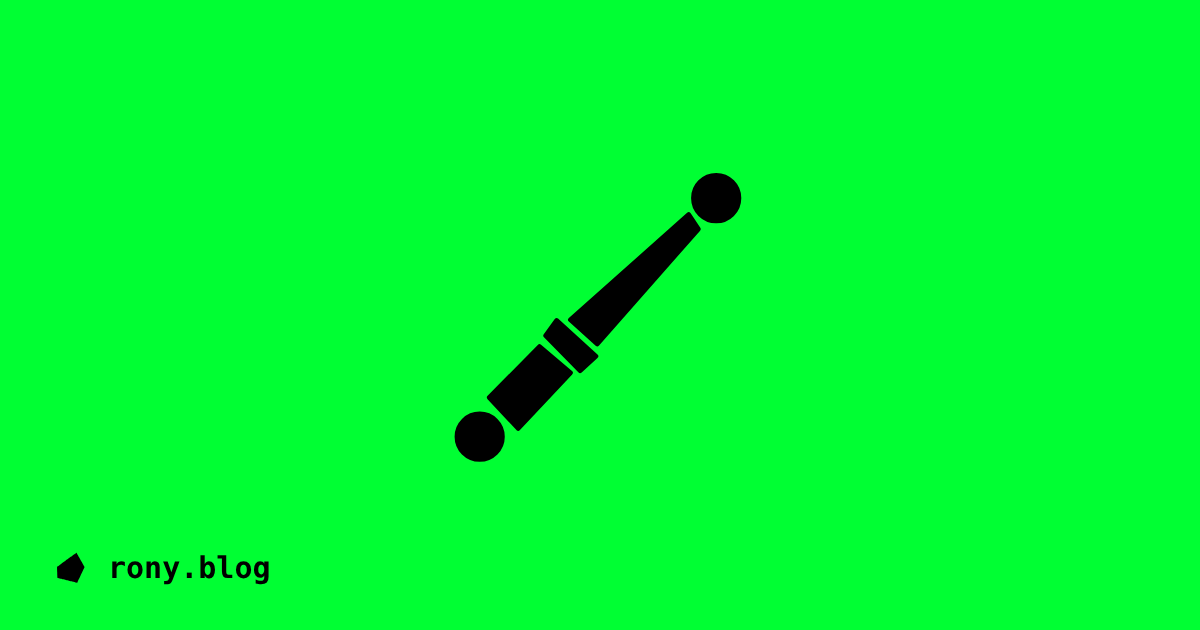
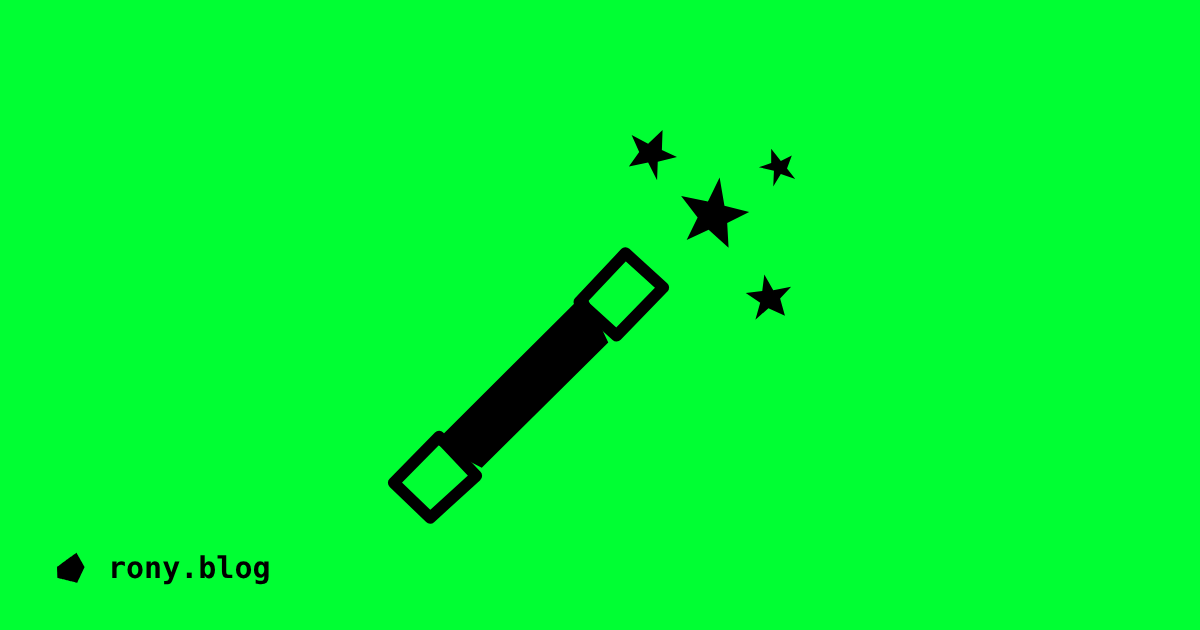
Draw the magic wand as a magic wand
A thick black shaft with outlined tips at both ends and four hand-cut
stars off the tip, in the same solid black as the other drawings. Replaces
the stick in the feed, the social cuts, the share card and the library.

Claude-Session: https://claude.ai/code/session_01DvgCqh7jZkxuLgej98F7v5

diff --git a/index.html b/index.html
@@ -375,7 +375,7 @@ h2.year { font-size: 13px; font-weight: 700; letter-spacing: .3em; color: var(--
   <symbol id="i-dots" viewBox="0 0 64 64"><path fill="currentColor" fill-rule="evenodd" d="M28.5 55.4 C28.7 55.2 28.9 55.1 29.0 55.1 C29.2 54.9 29.5 54.4 29.6 53.9 C29.8 53.4 29.8 53.4 29.6 52.9 C29.4 52.2 29.0 51.5 28.7 51.5 C28.6 51.5 28.5 51.5 28.3 51.4 C27.9 51.1 26.9 51.1 26.5 51.4 C25.6 51.9 25.1 53.0 25.3 53.8 C25.5 54.6 25.8 55.0 26.3 55.3 C26.7 55.6 26.8 55.6 27.5 55.6 C28.0 55.6 28.2 55.5 28.5 55.4 Z M19.7 46.5 C20.2 46.0 20.3 45.9 20.3 45.2 L20.3 44.7 L19.9 44.2 C19.6 43.9 19.5 43.8 19.1 43.8 C18.5 43.6 18.1 43.8 17.6 44.2 C17.0 44.8 17.0 45.5 17.6 46.2 C18.0 46.7 18.0 46.7 18.8 46.7 C19.3 46.7 19.5 46.6 19.7 46.5 Z M41.8 44.9 C42.4 44.5 42.7 43.9 42.4 43.4 C42.3 43.1 41.6 42.6 41.4 42.6 C41.1 42.6 40.7 42.9 40.4 43.2 C39.8 44.1 40.8 45.4 41.8 44.9 Z M29.8 38.1 C30.3 37.7 30.5 37.2 30.4 36.7 C30.2 36.2 29.6 35.6 29.1 35.6 C28.8 35.6 28.4 35.9 28.0 36.2 C27.7 36.5 27.7 36.6 27.7 37.0 C27.7 37.3 27.7 37.5 27.9 37.7 C28.4 38.3 29.2 38.5 29.8 38.1 Z M39.1 29.5 C39.3 29.4 39.6 29.3 39.7 29.1 C40.0 28.9 40.0 28.9 40.0 28.2 C40.0 27.5 39.9 27.2 39.3 26.9 C38.9 26.7 38.6 26.6 38.1 26.8 C37.6 27.0 37.2 27.4 37.2 27.9 C37.1 28.5 37.2 28.8 37.5 29.1 C38.1 29.6 38.5 29.7 39.1 29.5 Z M20.3 27.2 C21.0 27.1 21.4 27.0 21.9 26.5 C22.4 26.0 22.6 25.7 22.9 24.9 C23.1 24.2 23.1 23.8 22.9 23.2 C22.8 23.0 22.8 22.8 22.8 22.7 C22.8 22.3 21.9 21.3 21.3 21.0 C20.8 20.7 20.0 20.5 19.6 20.5 C19.3 20.5 18.4 20.8 17.9 21.0 C17.6 21.2 17.0 21.8 17.0 21.9 C17.0 22.0 16.9 22.1 16.8 22.2 C16.7 22.3 16.6 22.6 16.6 22.7 C16.6 22.9 16.5 23.1 16.4 23.2 C16.3 23.5 16.3 24.6 16.4 24.9 C16.5 25.0 16.6 25.3 16.7 25.6 C17.1 26.3 18.1 27.1 19.1 27.2 C19.6 27.3 19.7 27.3 20.3 27.2 Z M49.6 21.2 C49.8 21.1 50.1 20.9 50.2 20.6 C50.5 20.3 50.5 20.2 50.5 19.7 C50.5 19.3 50.5 19.1 50.3 18.8 C50.1 18.5 50.0 18.4 49.5 18.2 C49.0 18.0 49.0 18.0 48.6 18.1 C48.3 18.2 48.1 18.3 47.8 18.6 C47.4 19.1 47.3 19.3 47.3 19.7 C47.3 20.5 47.7 21.1 48.5 21.3 C48.9 21.4 49.2 21.4 49.6 21.2 Z M41.1 13.4 C41.5 13.3 41.8 13.1 42.0 12.9 C42.7 12.3 43.0 10.9 42.6 10.3 C42.5 10.2 42.5 10.1 42.5 10.0 C42.5 9.8 42.0 9.2 41.7 9.0 C41.5 8.9 41.1 8.7 40.8 8.6 C40.3 8.5 40.3 8.5 39.8 8.7 C39.5 8.7 39.1 8.9 38.9 9.0 C38.6 9.2 38.2 9.8 38.2 9.9 C38.2 9.9 38.1 10.1 38.0 10.3 C37.8 10.8 37.8 11.4 38.1 12.1 C38.3 12.8 38.8 13.2 39.6 13.5 C39.9 13.6 40.2 13.7 40.3 13.7 C40.4 13.7 40.7 13.6 41.1 13.4 Z"/></symbol>
   <symbol id="i-quad" viewBox="0 0 64 64"><path fill="currentColor" fill-rule="evenodd" d="M43.9 50.0 C43.9 49.9 44.0 49.3 44.1 48.6 C44.1 47.9 44.2 47.0 44.3 46.7 C44.3 46.4 44.4 45.7 44.4 45.1 C44.4 44.5 44.5 43.9 44.6 43.8 C44.6 43.6 44.7 43.1 44.7 42.6 C44.7 42.2 44.9 41.0 45.0 40.0 C45.1 39.1 45.2 37.7 45.3 36.9 C45.4 36.1 45.5 35.3 45.5 35.0 C45.6 34.7 45.7 34.1 45.7 33.6 C45.7 33.1 45.8 32.5 45.9 32.2 C45.9 32.0 45.9 31.6 45.9 31.3 C45.9 31.0 46.0 30.5 46.0 30.2 C46.1 29.9 46.2 29.1 46.3 28.3 C46.3 27.6 46.4 26.8 46.5 26.5 C46.5 26.3 46.5 25.8 46.5 25.6 C46.5 25.3 46.6 24.6 46.7 23.9 C46.8 23.3 46.9 22.3 46.9 21.8 C46.9 21.2 47.0 20.6 47.0 20.5 C47.1 20.4 47.1 19.8 47.2 19.3 C47.2 18.8 47.3 18.1 47.3 17.7 C47.4 16.7 47.5 15.3 47.5 15.1 C47.4 15.0 47.3 14.9 47.1 15.0 C47.0 15.0 46.7 15.1 46.3 15.1 C46.0 15.1 45.3 15.2 44.8 15.3 C44.3 15.4 43.4 15.5 42.8 15.6 C42.2 15.7 41.4 15.8 41.0 15.9 C40.6 16.0 40.1 16.0 39.8 16.1 C39.5 16.1 38.9 16.2 38.6 16.3 C37.4 16.5 36.4 16.6 35.8 16.7 C35.5 16.7 35.1 16.8 34.9 16.8 C34.7 16.9 34.3 16.9 33.9 17.0 C33.6 17.0 33.0 17.1 32.6 17.2 C31.8 17.3 31.2 17.4 29.9 17.6 C29.3 17.7 28.7 17.8 28.4 17.8 C25.8 18.3 25.4 18.3 24.5 18.5 C24.2 18.5 23.7 18.6 23.3 18.7 C22.9 18.7 22.2 18.8 21.7 18.9 C21.3 18.9 20.7 19.0 20.4 19.1 C20.2 19.1 19.7 19.2 19.4 19.2 C19.0 19.3 18.8 19.3 18.7 19.4 C18.6 19.5 18.6 19.9 18.6 20.5 C18.6 21.0 18.6 21.6 18.5 21.9 C18.5 22.3 18.4 23.1 18.1 26.6 C18.0 28.8 17.9 29.6 17.8 30.5 C17.7 31.9 17.5 34.8 17.5 36.2 C17.4 36.9 17.4 37.7 17.3 38.0 C17.3 38.3 17.2 39.1 17.2 39.8 C17.2 40.5 17.1 41.7 17.0 42.4 C17.0 43.2 16.9 44.3 16.8 44.8 C16.8 45.3 16.8 45.9 16.7 46.2 C16.7 46.8 16.8 46.9 17.7 47.0 C18.1 47.0 18.7 47.1 18.9 47.1 C19.2 47.1 19.9 47.2 20.4 47.3 C20.9 47.3 21.6 47.4 22.0 47.5 C22.8 47.6 23.5 47.7 25.3 47.9 C25.9 48.0 26.7 48.1 27.1 48.1 C27.5 48.2 28.3 48.3 28.9 48.4 C31.7 48.7 32.5 48.8 33.0 48.9 C33.4 48.9 33.8 49.0 34.0 49.0 C34.1 49.0 34.7 49.1 35.2 49.2 C36.8 49.4 38.0 49.5 38.9 49.6 C39.3 49.7 40.0 49.8 40.3 49.8 C40.6 49.8 41.1 49.9 41.4 50.0 C41.7 50.0 42.2 50.1 42.6 50.1 C42.9 50.1 43.3 50.2 43.4 50.2 C43.6 50.3 43.8 50.2 43.9 50.0 Z"/></symbol>
   <symbol id="i-coffin" viewBox="0 0 64 64"><path fill="currentColor" stroke="currentColor" stroke-width="0.9" stroke-linejoin="round" d="M29.6 6.5 L39.5 6.8 L48.5 21.3 L37.3 58.3 L22.6 56.5 L17.6 18.5 Z"/></symbol>
-  <symbol id="i-wand" viewBox="0 0 64 64"><path fill="currentColor" stroke="currentColor" stroke-width="0.7" stroke-linejoin="round" d="M11.2 49.7 a3.3 3.3 0 1 0 6.6 0 a3.3 3.3 0 1 0 -6.6 0 Z M15.9 44.0 L23.2 36.6 L27.7 40.4 L20.1 48.5 Z M24.1 35.0 L25.7 32.8 L31.4 38.0 L29.1 40.1 Z M27.7 32.7 L44.9 17.4 L46.3 19.5 L31.6 36.2 Z M45.6 15.0 a3.3 3.3 0 1 0 6.6 0 a3.3 3.3 0 1 0 -6.6 0 Z"/></symbol>
+  <symbol id="i-wand" viewBox="0 0 64 64"><path fill="currentColor" d="M7.9 50.6 L29.8 28.8 L33.2 36.0 L14.8 54.2 Z M49.4 12.0 L50.1 16.1 L53.7 17.0 L50.5 18.6 L50.7 22.2 L47.8 19.6 L44.6 21.1 L46.2 17.8 L43.8 14.7 L47.7 15.5 Z M55.9 26.1 L57.2 28.4 L59.8 27.9 L58.2 29.6 L58.9 32.1 L56.5 31.0 L54.6 32.7 L55.3 30.2 L53.2 28.8 L55.6 28.5 Z M41.1 5.1 L41.0 8.0 L43.2 9.0 L40.4 9.7 L40.3 12.4 L39.0 9.8 L36.2 10.4 L37.7 8.3 L36.6 5.8 L39.0 7.1 Z M56.9 7.8 L58.3 9.6 L59.9 8.8 L59.2 10.7 L60.4 12.2 L58.3 11.5 L57.2 13.3 L57.3 11.0 L55.1 10.5 L56.9 9.9 Z"/><path fill="none" stroke="currentColor" stroke-width="1.7" stroke-linejoin="round" d="M2.0 56.4 L8.6 49.7 L14.0 55.4 L7.3 61.5 Z M29.0 30.1 L35.7 23.0 L41.2 28.0 L34.4 35.0 Z"/></symbol>
   <symbol id="i-fingerprint" viewBox="0 0 64 64"><path fill="currentColor" fill-rule="evenodd" d="M37.6 57.6 C37.8 57.5 37.9 57.3 38.0 56.7 C38.4 55.3 38.4 55.2 38.8 53.8 C39.0 53.1 39.2 52.6 39.2 52.5 C39.2 52.4 39.3 52.2 39.3 52.1 C39.3 52.0 39.4 51.9 39.4 51.8 C39.4 51.7 39.5 51.5 39.5 51.5 C39.5 51.4 39.7 50.6 40.0 49.7 C40.3 48.8 40.5 48.1 40.5 48.0 C40.6 47.5 40.7 47.2 40.9 46.6 C40.9 46.4 41.0 46.2 41.0 46.1 C41.2 45.4 41.6 43.8 41.8 43.0 C41.9 42.8 41.9 42.4 42.0 42.2 C42.1 41.8 42.2 41.2 42.3 40.8 C42.3 40.6 42.4 40.4 42.4 40.3 C42.6 39.6 42.7 38.6 42.9 37.2 C43.4 34.2 43.4 30.6 42.9 28.9 C42.9 28.8 42.9 28.6 42.8 28.5 C42.6 27.5 42.2 26.4 41.7 25.5 C40.3 22.9 38.0 21.1 35.4 20.5 C34.6 20.3 34.5 20.3 33.4 20.3 C32.3 20.3 31.8 20.4 31.0 20.6 C30.9 20.6 30.7 20.7 30.7 20.7 C30.6 20.7 30.5 20.7 30.4 20.7 C30.4 20.8 30.2 20.8 30.2 20.9 C30.1 20.9 29.9 20.9 29.8 21.0 C29.7 21.0 29.6 21.1 29.5 21.1 C28.6 21.5 27.4 22.3 26.4 23.0 C24.2 24.8 22.7 27.0 21.7 30.0 C21.4 30.9 21.4 30.9 21.3 31.6 C20.5 35.0 20.3 38.8 20.9 43.4 C20.9 43.8 21.0 43.9 21.1 44.8 C21.2 45.6 21.4 46.4 21.6 47.7 C21.7 48.0 21.8 48.7 21.8 48.9 C22.1 49.9 22.5 51.5 22.6 51.8 C22.6 51.9 22.6 52.0 22.6 52.1 C22.7 52.2 22.7 52.4 22.7 52.5 C22.8 52.6 22.9 53.0 23.0 53.4 C23.1 53.8 23.2 54.2 23.2 54.2 C23.3 54.3 23.3 54.5 23.4 54.6 C23.6 55.5 23.7 55.7 24.1 55.8 C24.4 55.9 24.6 55.8 24.9 55.6 C25.1 55.4 25.1 55.3 25.1 55.1 C25.1 54.9 25.1 54.7 25.0 54.6 C25.0 54.4 24.9 54.3 24.9 54.2 C24.9 54.1 24.8 53.9 24.8 53.7 C24.6 53.2 24.3 52.1 24.1 51.3 C23.9 50.6 23.8 50.2 23.6 49.5 C23.4 48.6 23.4 48.5 23.3 48.1 C23.3 47.9 23.2 47.6 23.2 47.5 C23.2 47.3 23.1 47.1 23.1 47.0 C23.1 46.9 23.0 46.6 23.0 46.5 C23.0 46.3 22.9 46.1 22.9 45.9 C22.9 45.7 22.8 45.4 22.8 45.2 C22.5 43.7 22.4 42.7 22.2 40.7 C22.2 39.8 22.2 36.4 22.2 35.6 C22.4 34.2 22.4 33.9 22.6 33.2 C22.6 32.9 22.6 32.8 22.8 32.3 C23.0 31.3 23.3 30.2 23.6 29.4 C23.8 29.0 24.1 28.3 24.4 27.9 C25.4 26.0 27.0 24.4 29.1 23.1 C29.9 22.6 30.9 22.2 31.7 22.1 C31.9 22.0 32.1 22.0 32.2 22.0 C32.3 21.9 32.7 21.9 33.1 21.9 C35.1 21.8 37.1 22.5 38.6 24.1 C39.1 24.6 39.9 25.5 40.0 25.7 C40.0 25.8 40.1 26.0 40.2 26.1 C40.4 26.5 40.6 26.8 40.9 27.5 C41.2 28.2 41.4 29.3 41.6 30.4 C41.6 31.1 41.6 34.3 41.6 35.1 C41.4 36.2 41.4 36.8 41.2 37.6 C41.1 38.3 40.9 39.5 40.8 39.9 C40.8 40.2 40.7 40.5 40.6 40.8 C40.6 41.0 40.5 41.3 40.5 41.6 C40.4 41.8 40.4 42.1 40.3 42.2 C40.2 42.7 39.5 45.5 39.4 45.9 C39.4 46.0 39.3 46.3 39.2 46.5 C39.2 46.7 39.1 46.9 39.1 47.0 C39.1 47.1 39.0 47.3 39.0 47.4 C38.9 47.6 38.9 47.8 38.8 48.1 C38.8 48.2 38.6 48.9 38.4 49.6 C38.0 51.0 37.9 51.1 37.8 51.5 C37.8 51.6 37.7 51.8 37.7 51.9 C37.7 51.9 37.6 52.1 37.6 52.2 C37.6 52.3 37.4 52.8 37.3 53.3 C37.1 53.9 37.0 54.4 36.9 54.6 C36.9 54.7 36.8 54.9 36.8 55.0 C36.8 55.1 36.7 55.4 36.6 55.8 C36.5 56.1 36.4 56.5 36.4 56.6 C36.2 57.1 36.4 57.5 36.8 57.7 C37.0 57.8 37.4 57.8 37.6 57.6 Z M33.0 56.4 C33.3 56.3 33.4 56.0 33.5 55.3 C33.6 55.1 33.6 54.8 33.6 54.7 C33.7 54.6 33.7 54.3 33.8 54.2 C33.8 54.0 33.8 53.8 33.8 53.7 C33.9 53.6 33.9 53.4 34.0 53.2 C34.0 52.8 34.6 50.5 34.8 49.9 C34.8 49.8 34.9 49.6 34.9 49.4 C35.0 49.3 35.0 49.0 35.1 48.9 C35.2 48.4 35.3 48.0 35.4 47.7 C35.4 47.6 35.5 47.5 35.5 47.4 C35.5 47.3 35.6 47.1 35.6 47.1 C35.6 47.0 35.7 46.7 35.7 46.5 C35.8 46.3 35.9 46.0 36.0 45.8 C36.0 45.5 36.1 45.3 36.1 45.2 C36.1 45.1 36.2 44.8 36.4 43.9 C36.6 43.2 37.1 41.6 37.1 41.3 C37.1 41.2 37.2 41.0 37.2 40.9 C37.2 40.7 37.4 40.1 37.4 39.7 C37.6 39.0 37.7 37.7 37.9 36.6 C37.9 35.8 37.9 33.1 37.9 32.5 C37.7 30.9 37.5 30.2 37.1 29.2 C36.8 28.3 36.4 27.8 35.9 27.2 C35.2 26.5 34.5 26.3 33.5 26.3 C32.8 26.3 32.3 26.4 31.5 26.8 C30.1 27.5 28.3 29.3 27.5 30.6 C27.1 31.3 26.8 31.9 26.6 32.3 C26.6 32.4 26.6 32.5 26.5 32.6 C26.5 32.6 26.5 32.7 26.5 32.9 C26.4 33.0 26.4 33.1 26.3 33.2 C26.3 33.4 26.1 34.1 26.1 34.4 C26.0 34.6 26.0 34.8 25.9 35.0 C25.5 37.1 25.7 40.6 26.3 43.9 C26.4 44.6 26.6 45.7 26.7 45.9 C26.7 46.2 26.8 46.5 26.9 46.8 C27.0 47.3 27.6 49.7 27.7 50.2 C27.7 50.3 27.8 50.4 27.8 50.5 C27.8 50.6 27.9 50.8 27.9 50.9 C27.9 51.0 28.0 51.1 28.0 51.2 C28.0 51.3 28.1 51.5 28.1 51.6 C28.1 51.6 28.2 51.9 28.2 52.1 C28.3 52.3 28.4 52.5 28.4 52.6 C28.5 52.8 28.6 53.2 28.7 53.4 C28.9 54.2 30.0 54.1 30.2 53.3 C30.3 53.1 30.3 53.0 29.9 51.9 C29.9 51.7 29.8 51.5 29.8 51.4 C29.8 51.3 29.7 51.1 29.6 50.9 C29.6 50.6 29.5 50.3 29.4 50.1 C29.3 49.7 29.3 49.5 29.2 49.3 C29.2 49.2 28.8 47.8 28.7 47.5 C28.7 47.3 28.5 46.5 28.5 46.3 C28.4 46.2 28.4 46.0 28.4 45.9 C28.3 45.5 28.2 45.3 28.2 44.9 C28.1 44.8 28.1 44.5 28.0 44.4 C27.9 43.7 27.6 42.1 27.6 41.1 C27.5 40.8 27.5 40.4 27.4 40.1 C27.4 39.5 27.4 36.9 27.4 36.3 C27.7 34.4 28.0 33.3 28.5 32.1 C29.0 31.3 29.3 30.8 30.0 30.1 C31.5 28.5 33.0 27.7 33.9 28.0 C35.1 28.3 35.8 29.7 36.2 32.4 C36.2 33.0 36.2 36.1 36.2 36.8 C36.0 38.1 36.0 38.4 35.8 39.2 C35.7 40.2 35.7 40.0 35.3 41.5 C35.2 42.2 35.2 42.2 35.1 42.7 C35.0 42.9 34.9 43.3 34.8 43.6 C34.6 44.3 34.5 44.7 34.4 45.1 C34.3 45.3 34.3 45.6 34.2 45.7 C34.2 45.8 34.2 45.9 34.1 46.0 C34.1 46.1 34.1 46.2 34.1 46.3 C34.0 46.4 33.9 46.8 33.8 47.2 C33.7 47.6 33.6 48.1 33.5 48.2 C33.4 48.5 33.4 48.6 33.3 49.1 C33.0 50.1 32.9 50.6 32.8 50.9 C32.8 51.0 32.7 51.3 32.6 51.7 C32.5 52.0 32.4 52.4 32.4 52.5 C32.4 52.7 32.3 52.9 32.3 53.0 C32.2 53.3 32.0 54.4 31.9 54.7 C31.9 54.9 31.9 55.2 31.8 55.3 C31.8 55.4 31.8 55.6 31.8 55.7 C31.8 55.9 32.0 56.3 32.2 56.4 C32.4 56.5 32.8 56.5 33.0 56.4 Z M42.7 55.8 C43.0 55.6 43.1 55.4 43.2 55.0 C43.2 54.9 43.3 54.7 43.4 54.5 C43.4 54.3 43.5 54.1 43.5 54.0 C43.5 53.9 43.6 53.7 43.7 53.5 C43.7 53.3 43.8 53.1 43.8 53.0 C43.8 52.9 43.9 52.7 44.0 52.5 C44.1 52.1 44.1 52.0 44.2 51.7 C44.2 51.6 44.3 51.1 44.5 50.7 C44.6 50.3 44.7 49.8 44.8 49.6 C44.8 49.5 44.9 49.3 44.9 49.2 C45.0 49.0 45.1 48.5 45.3 47.8 C45.4 47.2 45.9 45.4 46.0 45.1 C46.0 45.0 46.1 44.8 46.1 44.8 C46.2 44.4 46.6 42.5 46.8 41.9 C46.8 41.7 46.8 41.6 46.8 41.4 C46.9 41.3 46.9 41.1 46.9 41.0 C47.0 40.9 47.0 40.7 47.0 40.7 C47.0 40.6 47.1 40.2 47.2 39.9 C47.2 39.5 47.3 39.1 47.4 38.9 C47.4 38.8 47.4 38.5 47.5 38.4 C47.5 38.2 47.6 37.8 47.7 36.7 C47.8 36.2 47.9 35.5 48.1 34.5 C48.1 34.1 48.2 33.5 48.3 32.5 C48.3 31.6 48.3 28.7 48.3 28.0 C48.1 26.9 48.0 26.2 47.7 25.1 C47.4 24.1 46.8 22.8 46.2 21.7 C45.9 21.2 45.1 20.0 45.0 19.8 C44.9 19.8 44.8 19.7 44.7 19.5 C43.8 18.4 42.3 17.1 41.4 16.5 C41.3 16.5 41.1 16.4 40.9 16.2 C39.9 15.7 38.6 15.1 37.5 14.9 C36.8 14.7 36.5 14.6 35.8 14.6 C35.3 14.5 33.4 14.5 33.0 14.6 C32.8 14.6 32.5 14.6 32.3 14.7 C31.3 14.8 29.9 15.2 29.0 15.6 C28.9 15.6 28.8 15.6 28.7 15.7 C28.7 15.7 28.5 15.7 28.5 15.7 C28.3 15.8 26.6 16.7 26.4 16.8 C25.9 17.1 25.8 17.2 25.3 17.4 C25.0 17.5 24.8 17.6 24.7 17.7 C24.6 17.8 24.4 17.8 24.3 17.9 C22.8 18.8 21.0 20.4 19.9 22.1 C19.1 23.3 18.4 24.7 17.9 26.1 C17.8 26.2 17.8 26.4 17.7 26.5 C17.7 26.6 17.4 27.6 17.3 27.9 C17.0 28.8 16.8 29.9 16.7 30.5 C16.7 30.6 16.6 30.9 16.6 31.2 C16.4 32.0 16.4 32.4 16.2 34.0 C16.2 34.8 16.2 39.2 16.2 40.2 C16.3 40.5 16.3 41.1 16.4 41.4 C16.4 41.7 16.4 42.1 16.5 42.3 C16.6 43.1 16.6 43.5 16.7 43.8 C16.7 44.0 16.7 44.3 16.8 44.5 C16.8 44.7 16.8 45.0 16.9 45.1 C16.9 45.2 16.9 45.5 16.9 45.6 C17.0 46.1 17.2 47.1 17.4 47.7 C17.4 47.9 17.5 48.2 17.5 48.3 C17.5 48.5 17.9 50.0 18.0 50.3 C18.1 50.6 18.2 50.8 18.2 51.0 C18.2 51.1 18.3 51.2 18.3 51.3 C18.5 52.2 19.5 52.4 20.0 51.6 C20.1 51.4 20.1 51.1 20.0 50.7 C20.0 50.6 19.9 50.5 19.9 50.4 C19.9 50.3 19.8 50.1 19.8 50.0 C19.6 49.3 19.2 47.6 19.0 46.9 C19.0 46.7 18.9 46.4 18.9 46.2 C18.9 46.1 18.8 45.9 18.8 45.8 C18.8 45.6 18.7 45.4 18.7 45.2 C18.6 44.6 18.5 43.8 18.4 43.4 C18.4 43.2 18.3 42.8 18.3 42.5 C18.2 42.1 18.2 41.6 18.2 41.3 C18.1 41.0 18.1 40.5 18.0 40.1 C18.0 39.3 18.0 34.9 18.0 34.0 C18.1 32.9 18.3 31.7 18.4 31.2 C18.4 31.0 18.5 30.8 18.5 30.6 C18.5 30.4 18.6 30.2 18.6 30.1 C18.6 30.0 18.7 29.8 18.7 29.7 C18.7 29.5 18.8 29.3 18.8 29.2 C18.8 29.2 18.9 28.9 18.9 28.7 C19.2 27.8 19.6 26.6 19.8 26.0 C19.9 25.9 20.0 25.7 20.1 25.6 C20.2 25.1 20.5 24.5 20.7 24.3 C20.8 24.1 20.9 24.0 20.9 24.0 C20.9 23.9 21.1 23.6 21.3 23.3 C22.6 21.3 24.1 20.0 26.2 19.0 C26.6 18.7 27.1 18.5 27.2 18.4 C27.5 18.2 27.6 18.2 28.3 17.8 C28.9 17.5 29.0 17.5 29.3 17.4 C29.4 17.3 29.5 17.3 29.6 17.3 C30.1 17.0 30.8 16.8 31.3 16.7 C32.0 16.5 32.3 16.5 33.0 16.4 C33.6 16.3 35.2 16.3 35.7 16.4 C36.7 16.5 36.7 16.5 37.3 16.7 C39.6 17.3 41.8 18.7 43.4 20.8 C43.8 21.2 44.3 21.9 44.3 22.0 C44.3 22.0 44.4 22.1 44.4 22.2 C45.0 23.0 45.7 24.6 45.9 25.6 C46.0 25.7 46.0 25.8 46.1 25.9 C46.1 26.0 46.1 26.2 46.2 26.7 C46.6 28.3 46.6 31.2 46.3 34.0 C46.2 34.7 46.1 35.7 46.0 36.2 C46.0 36.3 45.9 36.6 45.9 36.8 C45.8 37.2 45.8 37.6 45.7 38.0 C45.7 38.1 45.6 38.4 45.6 38.5 C45.5 39.3 45.3 40.3 45.2 40.8 C45.1 41.0 45.0 41.4 45.0 41.7 C44.7 42.6 44.6 43.1 44.3 44.5 C43.8 46.3 43.7 46.8 43.4 47.8 C43.4 47.9 43.3 48.1 43.3 48.2 C43.3 48.3 43.2 48.5 43.2 48.8 C43.1 49.0 43.0 49.3 43.0 49.5 C42.9 49.7 42.8 50.1 42.6 50.5 C42.5 50.9 42.4 51.3 42.4 51.4 C42.4 51.5 42.3 51.6 42.3 51.7 C42.3 51.8 42.2 52.0 42.2 52.2 C42.1 52.4 42.0 52.6 42.0 52.7 C42.0 52.8 41.9 53.0 41.9 53.1 C41.8 53.2 41.8 53.5 41.7 53.7 C41.6 53.9 41.6 54.1 41.6 54.2 C41.3 54.9 41.3 55.3 41.5 55.6 C41.8 55.9 42.3 56.0 42.7 55.8 Z M52.8 54.3 C53.0 54.2 53.0 54.1 53.6 53.1 C53.9 52.4 54.0 52.2 54.2 51.8 C54.2 51.7 54.3 51.5 54.3 51.4 C54.7 50.5 55.2 49.1 55.5 47.8 C55.6 47.2 55.6 47.1 55.7 46.3 C56.0 44.7 56.1 42.7 56.0 40.9 C55.9 39.0 55.8 37.9 55.4 36.0 C55.3 35.2 54.9 33.8 54.7 33.0 C54.6 32.6 54.6 32.5 54.5 32.2 C54.3 31.6 54.2 31.4 53.8 31.4 C53.5 31.4 53.3 31.5 53.2 31.7 C53.1 32.0 53.1 31.9 53.3 32.9 C53.5 33.4 53.8 34.8 53.9 35.0 C54.0 35.6 54.2 36.3 54.2 36.5 C54.4 37.8 54.5 38.5 54.7 39.8 C54.7 40.6 54.7 44.0 54.7 44.7 C54.5 45.6 54.5 46.0 54.4 46.4 C54.3 46.9 54.2 47.5 54.2 47.8 C54.1 47.8 54.1 48.1 54.0 48.4 C53.8 49.0 53.6 49.9 53.5 50.1 C53.4 50.2 53.3 50.4 53.2 50.7 C52.9 51.5 52.3 52.8 51.9 53.4 C51.6 54.0 52.3 54.7 52.8 54.3 Z M48.4 52.6 C48.7 52.4 48.7 52.3 48.9 51.8 C49.0 51.6 49.1 51.3 49.1 51.3 C49.4 50.7 50.0 49.0 50.2 48.1 C50.3 47.8 50.4 47.5 50.4 47.4 C50.5 47.3 50.5 47.2 50.6 47.1 C50.6 46.9 50.6 46.8 50.7 46.7 C50.7 46.6 50.7 46.5 50.7 46.4 C50.8 46.3 50.8 46.0 50.9 45.8 C51.0 45.5 51.4 43.8 51.5 43.2 C51.6 43.1 51.6 42.8 51.7 42.7 C51.8 42.2 52.1 40.7 52.2 39.9 C52.2 39.7 52.3 39.4 52.3 39.3 C52.5 38.2 52.7 36.7 52.8 35.5 C53.1 32.2 53.1 28.6 52.7 26.3 C52.6 25.4 52.6 25.3 52.4 24.7 C52.3 24.1 52.1 23.4 52.0 23.1 C51.8 22.6 51.8 22.3 51.7 22.3 C51.7 22.3 51.7 22.3 51.7 22.2 C51.7 22.1 51.0 20.6 50.5 19.8 C49.1 17.5 46.9 15.1 44.7 13.4 C42.7 11.9 40.5 10.7 38.2 10.0 C37.7 9.8 37.5 9.8 37.1 9.7 C37.0 9.6 36.8 9.6 36.7 9.6 C36.2 9.4 35.6 9.3 35.1 9.2 C34.9 9.2 34.6 9.2 34.4 9.1 C33.9 9.1 31.8 9.0 31.1 9.1 C30.2 9.2 29.5 9.3 28.9 9.4 C28.8 9.4 28.6 9.5 28.5 9.5 C27.8 9.6 26.7 10.0 26.2 10.2 C26.1 10.3 25.9 10.3 25.9 10.4 C24.7 10.8 23.1 11.8 21.9 12.7 C21.7 12.9 21.4 13.1 21.3 13.2 C20.8 13.5 19.7 14.5 19.1 15.1 C17.9 16.5 17.0 17.6 15.9 19.4 C14.5 21.5 13.3 24.6 12.7 27.4 C12.6 27.6 12.6 27.8 12.6 27.9 C12.5 28.0 12.5 28.2 12.4 28.4 C12.4 28.6 12.4 28.8 12.3 29.0 C12.3 29.1 12.3 29.4 12.3 29.6 C12.2 29.8 12.2 30.1 12.2 30.3 C11.8 32.6 11.8 35.5 12.2 38.3 C12.2 39.0 12.4 40.0 12.5 40.3 C12.5 40.4 12.5 40.7 12.6 40.9 C12.6 41.0 12.6 41.3 12.7 41.4 C12.7 41.5 12.7 41.7 12.8 41.8 C12.8 42.1 13.1 43.3 13.2 43.7 C13.4 44.5 14.0 46.3 14.2 46.9 C14.4 47.3 14.5 47.5 14.5 47.6 C14.5 47.6 14.6 47.7 14.6 47.8 C14.8 48.1 15.0 48.2 15.3 48.2 C15.9 48.2 16.2 47.9 16.2 47.4 C16.2 47.1 16.2 47.0 15.9 46.5 C15.8 46.1 15.4 44.8 15.3 44.6 C15.3 44.5 15.2 44.4 15.2 44.2 C15.0 43.7 15.0 43.7 14.7 42.7 C14.6 42.3 14.6 42.2 14.5 41.9 C14.5 41.8 14.5 41.6 14.5 41.5 C14.4 41.4 14.4 41.2 14.4 41.0 C14.3 40.8 14.1 39.9 14.1 39.4 C14.0 38.8 13.9 38.0 13.7 36.8 C13.7 36.0 13.7 32.5 13.7 31.7 C13.9 29.8 14.1 28.6 14.5 27.2 C14.7 26.2 15.2 24.8 15.3 24.4 C15.4 24.3 15.5 24.1 15.6 23.8 C16.3 22.0 17.6 19.7 18.8 18.2 C19.0 17.9 19.1 17.7 19.1 17.7 C19.2 17.7 19.3 17.5 19.5 17.3 C20.2 16.5 21.2 15.5 22.0 14.8 C24.8 12.6 26.5 11.7 29.5 11.1 C29.7 11.0 30.2 10.9 30.8 10.9 C31.3 10.8 33.5 10.8 34.0 10.9 C35.3 11.0 35.9 11.1 37.0 11.4 C37.5 11.6 38.5 11.9 38.9 12.1 C39.1 12.2 39.2 12.2 39.2 12.2 C39.3 12.2 41.0 13.1 41.7 13.5 C41.9 13.6 42.2 13.8 42.2 13.8 C42.6 14.0 43.9 15.0 44.5 15.5 C45.0 15.9 46.3 17.2 46.8 17.7 C48.0 19.0 49.4 21.2 50.0 22.7 C50.2 23.2 50.5 24.0 50.6 24.6 C50.7 24.8 50.7 24.9 50.8 25.5 C50.9 25.8 51.0 26.6 51.1 27.5 C51.4 29.3 51.3 32.4 51.1 35.0 C51.0 36.2 50.8 37.9 50.6 38.9 C50.6 39.1 50.5 39.4 50.5 39.5 C50.4 40.4 50.1 41.7 49.9 42.6 C49.9 42.7 49.8 42.9 49.8 43.0 C49.8 43.2 49.6 43.7 49.5 44.3 C49.1 45.8 49.0 46.3 48.8 47.0 C48.7 47.2 48.6 47.5 48.6 47.7 C48.4 48.1 47.9 49.6 47.9 49.8 C47.8 49.8 47.8 50.0 47.8 50.1 C47.7 50.1 47.7 50.3 47.6 50.3 C47.6 50.4 47.6 50.6 47.5 50.7 C47.4 51.1 47.3 51.2 47.2 51.4 C47.2 51.6 47.2 52.1 47.2 52.3 C47.5 52.7 48.0 52.8 48.4 52.6 Z M10.0 35.7 C10.0 35.7 10.1 35.6 10.1 35.5 C10.3 35.3 10.3 35.3 10.1 34.4 C9.9 33.4 9.8 32.3 9.6 31.0 C9.6 30.2 9.6 27.0 9.6 26.3 C9.8 24.4 10.0 23.6 10.4 22.0 C10.5 21.6 10.9 20.6 11.1 20.2 C11.1 20.1 11.1 20.0 11.2 19.9 C11.6 18.9 12.4 17.4 13.1 16.3 C13.3 15.9 14.1 14.9 14.2 14.7 C14.2 14.7 14.4 14.6 14.5 14.4 C15.4 13.4 16.7 12.1 18.0 11.0 C18.2 10.8 18.5 10.6 18.5 10.5 C18.7 9.9 18.1 9.4 17.6 9.7 C16.2 10.7 14.1 12.7 12.8 14.5 C12.5 14.9 11.5 16.3 11.5 16.4 C11.5 16.4 11.5 16.5 11.4 16.5 C11.0 17.1 10.0 19.3 9.7 20.2 C9.6 20.4 9.5 20.6 9.5 20.7 C9.4 20.8 9.4 21.1 9.3 21.3 C9.2 21.5 9.2 21.7 9.1 21.8 C9.1 21.9 8.9 22.6 8.8 23.0 C8.7 23.6 8.7 23.7 8.7 24.0 C8.5 24.8 8.4 25.3 8.3 26.4 C8.3 27.1 8.3 30.0 8.3 30.9 C8.4 31.8 8.6 33.0 8.7 33.5 C8.7 33.7 8.7 33.9 8.8 34.1 C8.9 35.2 9.0 35.5 9.2 35.7 C9.4 35.9 9.7 35.9 10.0 35.7 Z"/></symbol>
   <symbol id="i-about" viewBox="0 0 64 64"><path fill="currentColor" fill-rule="evenodd" d="M20.66 51.21 C20.83 51.16 21.33 51.10 21.77 51.08 C22.50 51.03 22.99 50.96 24.17 50.70 C24.37 50.65 24.75 50.58 25.01 50.53 C25.27 50.49 25.76 50.36 26.09 50.26 C26.43 50.16 26.93 50.02 27.21 49.95 C28.07 49.74 28.52 49.59 29.64 49.15 C29.84 49.07 30.13 48.96 30.28 48.91 C30.43 48.86 30.64 48.78 30.75 48.72 C31.10 48.55 31.57 48.34 31.62 48.34 C31.69 48.34 33.94 47.22 34.33 46.99 C34.51 46.88 34.73 46.76 34.80 46.72 C34.88 46.69 35.15 46.52 35.41 46.35 C35.67 46.18 35.98 46.00 36.09 45.94 C36.20 45.89 36.34 45.80 36.38 45.74 C36.43 45.68 36.50 45.64 36.53 45.64 C36.56 45.64 36.76 45.52 36.98 45.37 C37.19 45.23 37.55 44.99 37.77 44.85 C38.20 44.57 39.04 43.99 39.22 43.84 C42.88 40.95 44.03 39.95 45.27 38.59 C45.48 38.36 45.90 37.92 46.20 37.60 C47.46 36.29 49.40 33.93 49.42 33.70 C49.42 33.68 49.53 33.52 49.66 33.35 C49.98 32.91 51.00 31.39 51.09 31.19 C51.14 31.10 51.25 30.90 51.34 30.75 C51.43 30.60 51.53 30.42 51.57 30.34 C51.73 30.00 51.98 29.50 52.16 29.16 C52.28 28.96 52.45 28.58 52.55 28.32 C52.65 28.06 52.76 27.79 52.79 27.71 C53.52 26.10 54.07 23.73 54.07 22.16 C54.08 21.03 53.84 19.50 53.51 18.61 C53.42 18.36 53.19 17.88 53.00 17.55 C52.81 17.22 52.66 16.88 52.66 16.79 C52.66 16.70 52.71 16.47 52.77 16.27 C52.88 15.88 52.87 15.17 52.73 14.57 C52.53 13.67 51.78 12.84 50.70 12.31 C50.20 12.07 49.71 11.88 49.55 11.88 C49.47 11.88 49.27 11.82 49.09 11.74 C48.79 11.60 48.71 11.59 47.56 11.63 C46.73 11.66 46.23 11.71 45.98 11.78 C45.77 11.85 45.39 11.92 45.13 11.95 C44.52 12.02 43.29 12.25 43.05 12.35 C42.95 12.39 42.79 12.42 42.71 12.42 C42.56 12.42 41.85 12.61 41.42 12.77 C41.20 12.85 40.54 13.05 40.00 13.20 C39.81 13.26 39.57 13.35 39.45 13.40 C39.33 13.46 39.20 13.50 39.16 13.50 C39.11 13.50 38.98 13.55 38.86 13.60 C38.75 13.65 38.53 13.74 38.38 13.80 C38.23 13.85 37.95 13.96 37.76 14.04 C37.56 14.11 37.24 14.24 37.05 14.32 C36.85 14.40 36.58 14.50 36.44 14.55 C36.30 14.61 35.99 14.74 35.73 14.86 C35.48 14.97 35.14 15.13 34.97 15.20 C34.80 15.28 34.27 15.53 33.79 15.76 C33.31 15.99 32.75 16.25 32.56 16.34 C32.13 16.53 31.88 16.77 31.66 17.23 C31.50 17.58 31.22 17.83 30.75 18.07 C30.64 18.12 30.44 18.24 30.30 18.32 C29.56 18.76 29.20 18.96 28.57 19.29 C28.19 19.48 27.85 19.65 27.81 19.65 C27.76 19.65 27.61 19.54 27.47 19.41 C27.32 19.28 27.14 19.17 27.07 19.17 C26.64 19.17 26.20 19.69 26.19 20.18 C26.19 20.35 26.15 20.54 26.11 20.59 C26.01 20.71 25.55 21.06 25.49 21.06 C25.42 21.06 24.39 21.76 23.46 22.44 C22.89 22.85 22.91 22.84 22.65 23.04 C22.54 23.13 22.36 23.25 22.26 23.31 C22.06 23.44 20.64 24.57 19.75 25.32 C18.63 26.25 15.51 29.44 14.83 30.35 C14.47 30.82 14.05 31.36 13.91 31.53 C13.85 31.59 13.68 31.83 13.52 32.04 C13.36 32.26 13.06 32.66 12.87 32.92 C12.67 33.18 12.42 33.54 12.31 33.71 C12.21 33.89 11.95 34.28 11.75 34.58 C11.55 34.89 11.11 35.69 10.76 36.37 C10.41 37.05 10.10 37.65 10.07 37.72 C10.03 37.79 9.94 38.01 9.86 38.21 C9.78 38.42 9.65 38.69 9.58 38.83 C9.51 38.97 9.45 39.13 9.45 39.19 C9.45 39.25 9.39 39.44 9.32 39.62 C9.04 40.30 8.69 41.57 8.63 42.09 C8.60 42.39 8.54 42.72 8.51 42.83 C8.40 43.14 8.42 44.68 8.54 45.00 C8.59 45.14 8.64 45.40 8.64 45.56 C8.64 45.72 8.70 46.01 8.78 46.20 C9.23 47.30 9.33 47.47 9.95 48.16 C10.32 48.58 11.25 49.37 11.91 49.82 C12.05 49.92 12.36 50.15 12.61 50.33 C13.36 50.90 13.54 50.98 14.00 50.97 C14.88 50.96 17.12 51.11 17.42 51.20 C17.84 51.34 20.23 51.34 20.66 51.21 Z M16.84 49.89 C16.51 49.86 16.11 49.80 15.97 49.76 C15.82 49.72 15.56 49.69 15.39 49.69 C15.06 49.69 14.28 49.49 13.74 49.27 C13.20 49.05 12.80 48.87 12.69 48.81 C12.64 48.77 12.48 48.69 12.35 48.61 C11.74 48.27 10.53 47.03 10.53 46.73 C10.53 46.68 10.47 46.53 10.40 46.39 C9.89 45.40 9.81 43.38 10.22 41.53 C10.36 40.91 10.62 40.13 10.86 39.56 C10.97 39.32 11.14 38.92 11.24 38.68 C11.34 38.44 11.47 38.20 11.52 38.14 C11.57 38.08 11.61 37.99 11.61 37.93 C11.61 37.82 11.71 37.64 12.49 36.22 C12.59 36.03 12.83 35.65 13.02 35.38 C13.43 34.79 13.71 34.38 13.80 34.22 C14.08 33.77 15.31 32.20 15.77 31.69 C16.18 31.24 16.87 30.46 17.25 30.01 C18.00 29.12 18.99 28.11 19.95 27.26 C20.32 26.92 20.99 26.33 21.43 25.93 C22.68 24.81 23.98 23.79 24.92 23.19 C24.98 23.15 25.45 22.84 25.96 22.50 C26.48 22.15 26.95 21.87 27.01 21.87 C27.08 21.87 27.24 22.04 27.39 22.26 L27.65 22.65 L28.10 22.67 C28.35 22.68 28.61 22.66 28.69 22.62 C28.88 22.52 28.96 22.14 28.96 21.42 C28.96 20.67 29.02 20.59 29.88 20.00 C31.15 19.14 31.50 19.00 32.01 19.20 C32.25 19.30 32.43 19.31 33.18 19.27 C34.23 19.21 34.50 19.13 34.50 18.85 C34.50 18.73 34.43 18.59 34.31 18.48 C34.14 18.31 34.07 18.30 33.63 18.30 C32.94 18.30 32.98 18.09 33.76 17.69 C34.00 17.57 34.35 17.39 34.53 17.28 C34.72 17.18 35.04 17.02 35.24 16.92 C35.44 16.82 35.72 16.68 35.86 16.60 C36.00 16.53 36.16 16.47 36.22 16.47 C36.28 16.47 36.41 16.43 36.51 16.37 C36.61 16.32 36.82 16.23 36.98 16.17 C37.69 15.92 37.85 15.86 37.97 15.80 C38.05 15.76 38.24 15.69 38.40 15.63 C39.11 15.38 39.27 15.31 39.47 15.22 C39.59 15.17 39.72 15.12 39.76 15.12 C39.80 15.12 39.96 15.07 40.12 15.00 C40.51 14.82 40.80 14.72 41.33 14.57 C41.58 14.50 41.99 14.39 42.24 14.32 C42.50 14.25 42.84 14.15 43.00 14.11 C43.17 14.07 43.53 13.97 43.80 13.90 C44.06 13.83 44.36 13.77 44.45 13.77 C44.55 13.77 44.74 13.73 44.88 13.68 C45.51 13.43 48.08 13.30 48.93 13.46 C49.89 13.64 50.85 14.24 51.11 14.82 C51.25 15.12 51.28 15.63 51.17 15.91 C51.13 16.02 51.07 16.31 51.04 16.57 C51.01 16.83 50.95 17.21 50.90 17.42 C50.84 17.70 50.83 17.98 50.88 18.53 C50.93 19.21 50.95 19.28 51.08 19.29 C51.19 19.31 51.28 19.23 51.45 18.96 C51.84 18.34 51.91 18.34 52.15 19.05 C52.40 19.80 52.48 20.47 52.48 21.81 C52.47 23.03 52.40 23.82 52.24 24.34 C52.18 24.52 52.10 24.81 52.05 24.98 C51.84 25.77 51.76 26.04 51.67 26.16 C51.62 26.23 51.58 26.35 51.58 26.42 C51.58 26.49 51.54 26.63 51.48 26.72 C51.43 26.82 51.31 27.09 51.21 27.31 C50.91 27.97 50.17 29.45 49.99 29.74 C49.90 29.89 49.78 30.10 49.72 30.21 C49.66 30.32 49.53 30.55 49.42 30.72 C49.31 30.88 49.19 31.08 49.16 31.16 C49.12 31.23 49.05 31.34 48.99 31.39 C48.93 31.44 48.88 31.50 48.88 31.53 C48.88 31.56 48.79 31.72 48.67 31.88 C48.56 32.04 48.42 32.24 48.35 32.34 C48.07 32.76 47.12 34.01 46.94 34.19 C46.83 34.31 46.55 34.64 46.31 34.94 C45.84 35.54 45.65 35.74 44.62 36.82 C44.03 37.45 43.18 38.28 42.40 39.02 C42.22 39.19 41.81 39.53 41.38 39.87 C41.25 39.98 40.95 40.25 40.70 40.48 C40.45 40.71 40.10 40.99 39.92 41.12 C39.74 41.24 39.30 41.58 38.94 41.87 C38.59 42.16 37.92 42.64 37.46 42.95 C37.00 43.26 36.51 43.60 36.36 43.71 C36.06 43.94 35.99 43.99 34.79 44.69 C34.32 44.97 33.84 45.26 33.72 45.33 C33.28 45.60 32.27 46.18 32.24 46.18 C32.22 46.18 32.03 46.30 31.82 46.45 C31.60 46.60 31.40 46.72 31.37 46.72 C31.34 46.72 31.12 46.81 30.88 46.92 C30.64 47.03 30.25 47.21 30.01 47.32 C29.77 47.44 29.55 47.53 29.52 47.53 C29.49 47.53 29.39 47.57 29.29 47.62 C29.19 47.67 29.00 47.75 28.86 47.80 C28.72 47.84 28.53 47.92 28.43 47.97 C28.33 48.02 28.21 48.07 28.16 48.07 C28.11 48.07 27.99 48.11 27.89 48.17 C27.70 48.28 27.50 48.35 26.57 48.66 C24.94 49.21 23.14 49.61 21.33 49.83 C20.56 49.92 17.69 49.96 16.84 49.89 Z M29.87 41.48 C30.10 41.43 30.38 41.37 30.51 41.35 C30.64 41.32 30.86 41.24 30.99 41.18 C31.12 41.11 31.42 40.96 31.66 40.84 C32.71 40.34 33.56 39.62 34.13 38.75 C34.53 38.14 35.11 36.81 35.11 36.51 C35.11 36.38 35.15 36.14 35.21 35.98 C35.33 35.64 35.34 34.57 35.23 34.23 C35.19 34.10 35.13 33.82 35.10 33.62 C34.98 32.70 34.35 31.44 33.59 30.58 C33.16 30.10 32.17 29.36 31.53 29.05 C30.75 28.67 29.69 28.42 28.73 28.37 C28.19 28.34 27.32 28.49 26.60 28.73 C26.43 28.79 26.20 28.86 26.09 28.89 C25.98 28.92 25.75 29.03 25.59 29.12 C25.42 29.22 25.19 29.35 25.08 29.41 C24.84 29.54 24.01 30.19 23.76 30.44 C23.59 30.62 23.06 31.30 22.91 31.56 C22.54 32.16 22.14 33.14 22.14 33.43 C22.14 33.55 22.09 33.78 22.04 33.92 C21.90 34.30 21.91 35.75 22.05 36.25 C22.35 37.35 22.71 38.17 23.11 38.69 C23.82 39.63 24.69 40.42 25.45 40.81 C26.92 41.56 28.48 41.80 29.87 41.48 Z"/></symbol>
 </svg>
